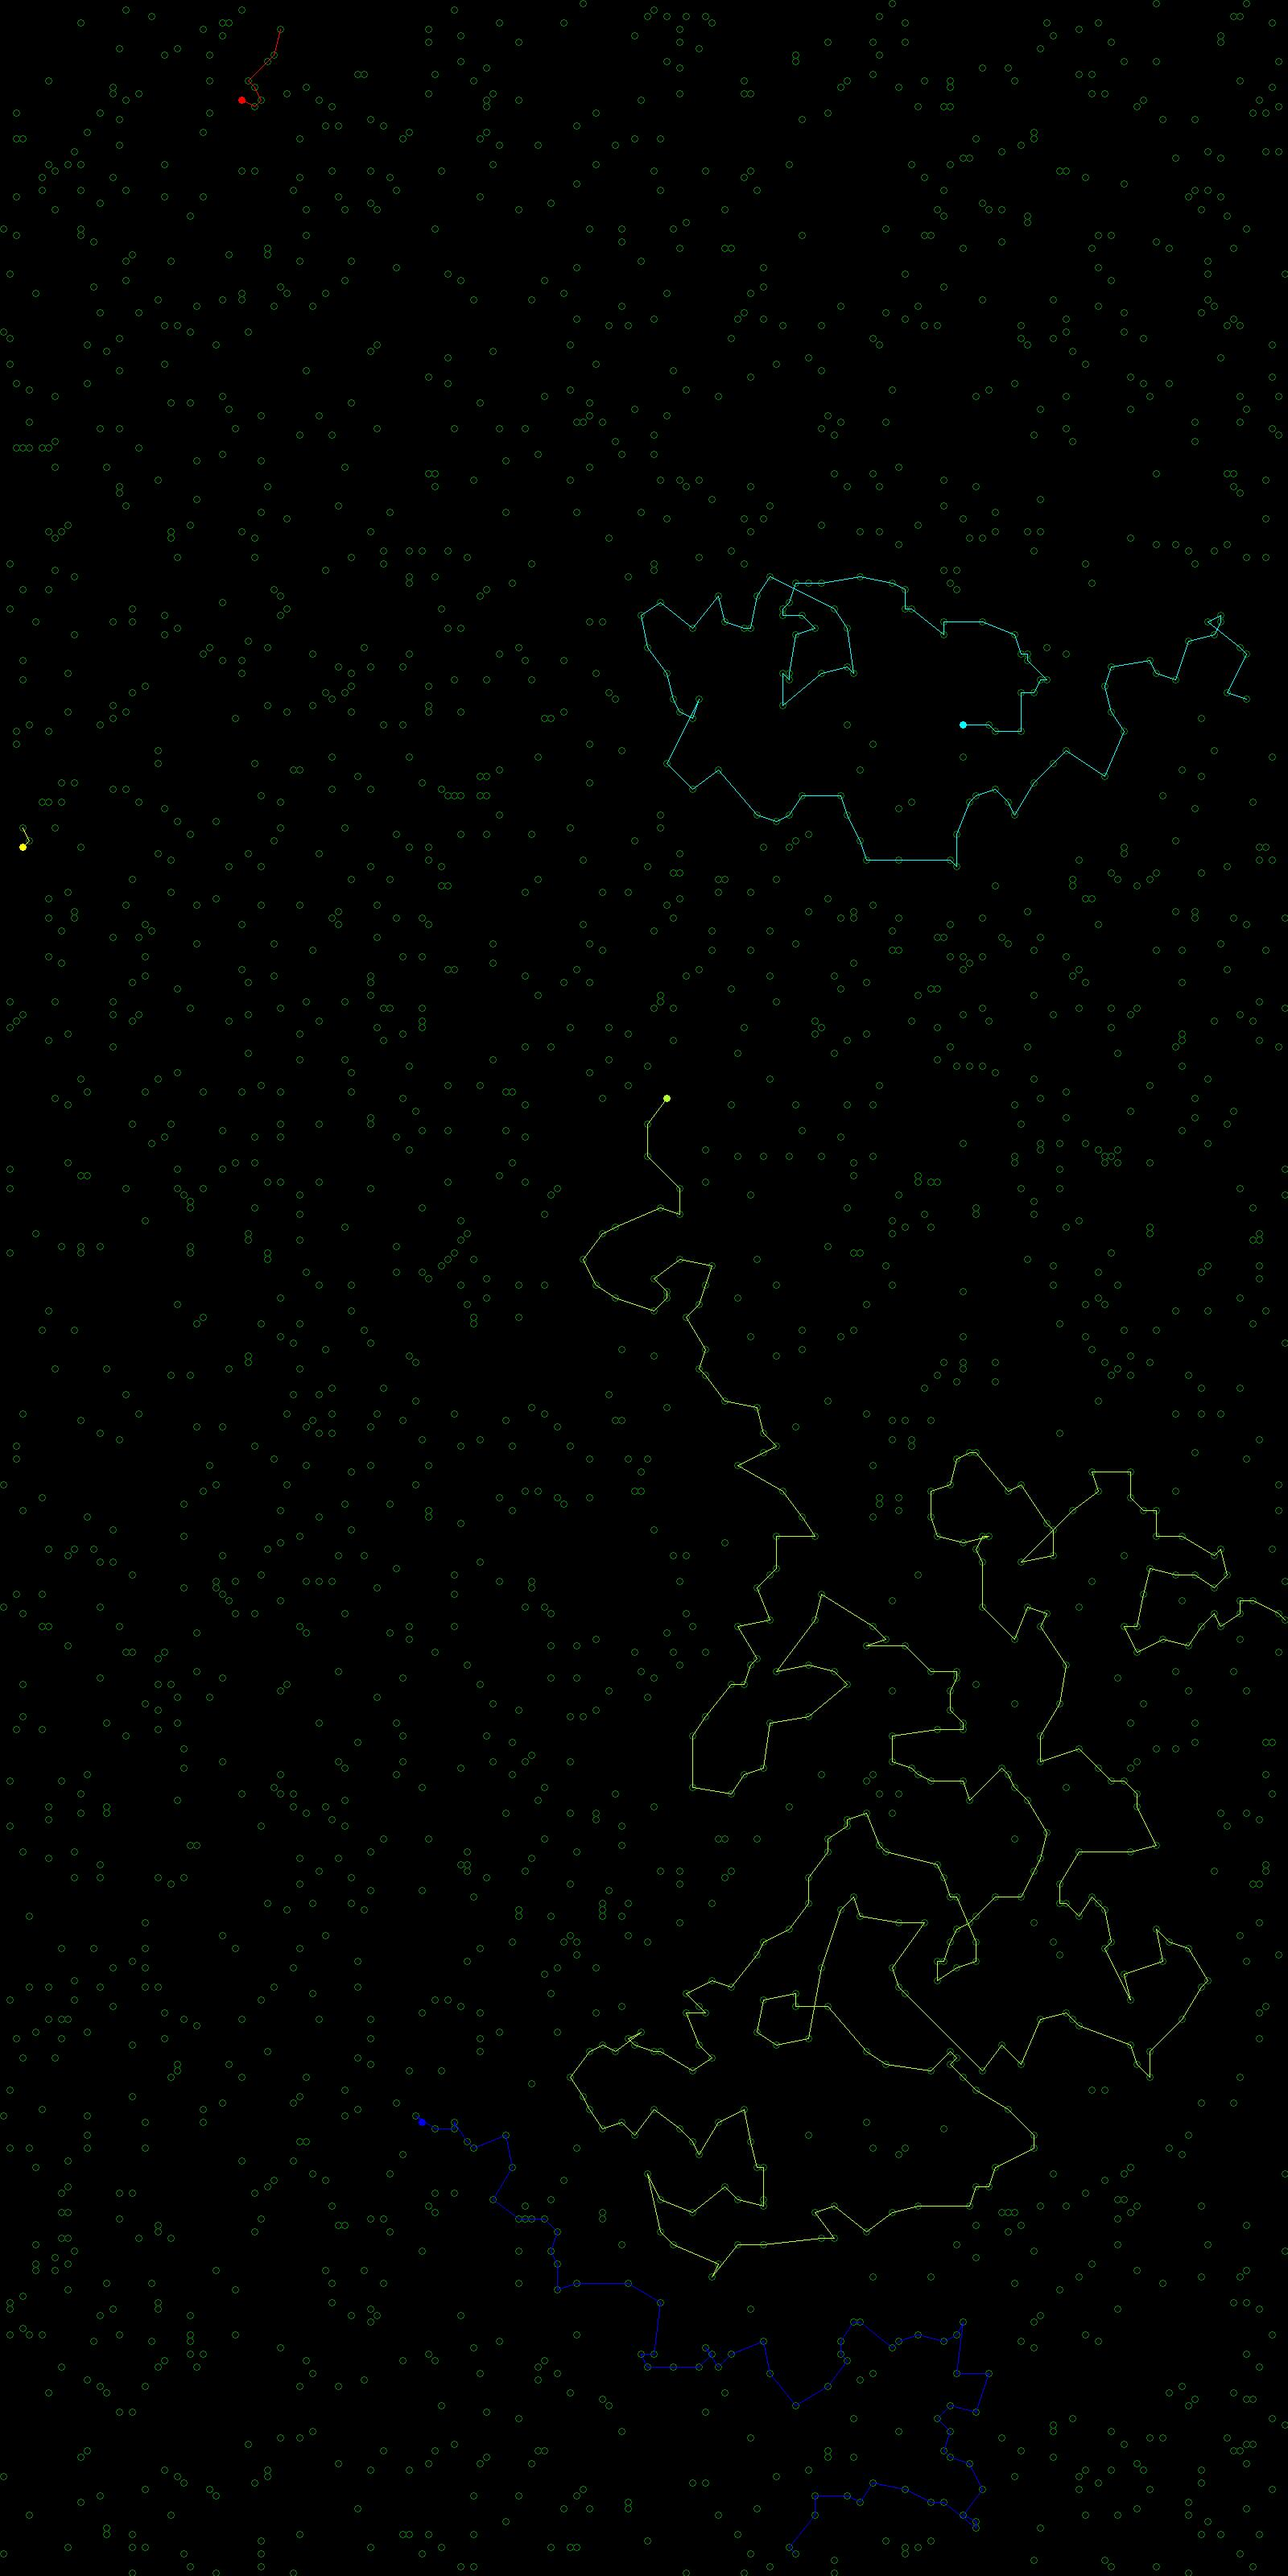
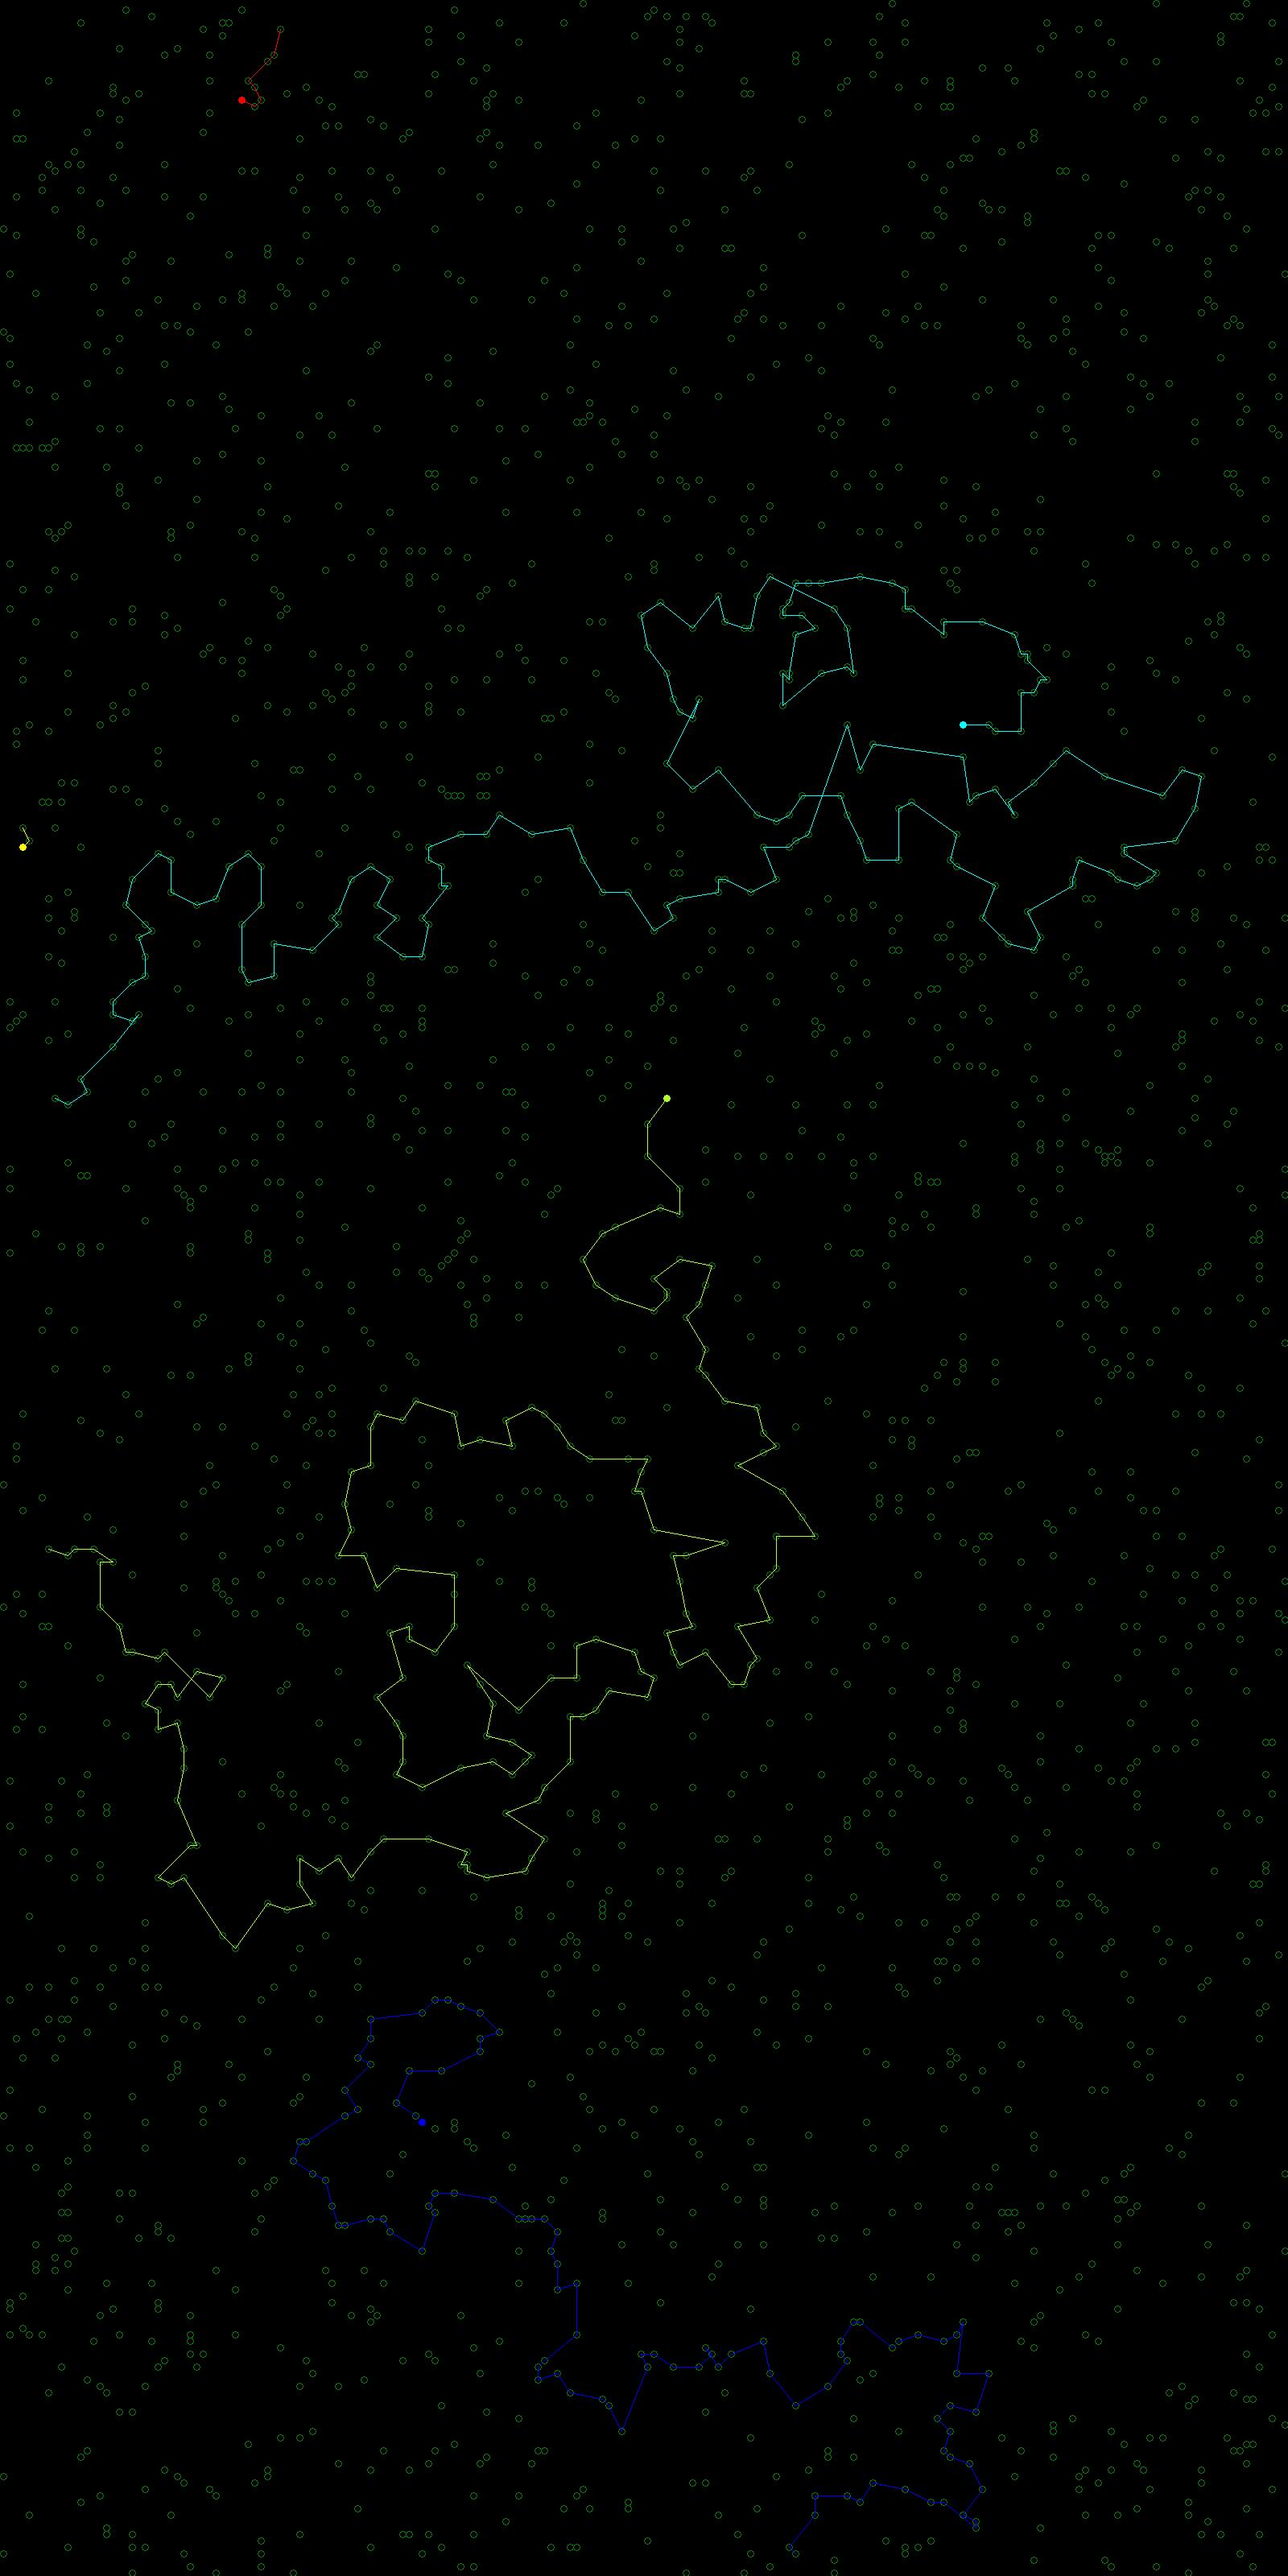
datagrid algo

diff --git a/Objects/Wood.cs b/Objects/Wood.cs
@@ -164,16 +164,34 @@ namespace EscapeFromTheWoods.Objects
                     visited[monkey.tree.treeID] = true;
                     SortedList<double, List<Tree>> distanceToMonkey = new SortedList<double, List<Tree>>();
 
-                    //zoek dichtste boom die nog niet is bezocht            
-                    foreach (Tree t in trees)
+                    // Get the cell of the current tree
+                    int x = (int)Math.Floor((monkey.tree.x - map.xmin) / gridDataSet.Delta);
+                    int y = (int)Math.Floor((monkey.tree.y - map.ymin) / gridDataSet.Delta);
+
+                    // Get the neighboring cells
+                    var neighboringCells = new List<List<Tree>>();
+                    for (int i = Math.Max(0, x - 1); i <= Math.Min(gridDataSet.NX - 1, x + 1); i++)
                     {
-                        if (!visited[t.treeID] && !t.hasMonkey)
+                        for (int j = Math.Max(0, y - 1); j <= Math.Min(gridDataSet.NY - 1, y + 1); j++)
                         {
-                            double d = Math.Sqrt(Math.Pow(t.x - monkey.tree.x, 2) + Math.Pow(t.y - monkey.tree.y, 2));
-                            if (distanceToMonkey.ContainsKey(d)) distanceToMonkey[d].Add(t);
-                            else distanceToMonkey.Add(d, new List<Tree>() { t });
+                            neighboringCells.Add(gridDataSet.GridData[i][j]);
                         }
                     }
+
+                    // Search for the closest tree in the neighboring cells
+                    foreach (var cell in neighboringCells)
+                    {
+                        foreach (Tree t in cell)
+                        {
+                            if (!visited[t.treeID] && !t.hasMonkey)
+                            {
+                                double d = Math.Sqrt(Math.Pow(t.x - monkey.tree.x, 2) + Math.Pow(t.y - monkey.tree.y, 2));
+                                if (distanceToMonkey.ContainsKey(d)) distanceToMonkey[d].Add(t);
+                                else distanceToMonkey.Add(d, new List<Tree>() { t });
+                            }
+                        }
+                    }
+
                     //distance to border            
                     //noord oost zuid west
                     double distanceToBorder = new List<double>(){ map.ymax - monkey.tree.y,
